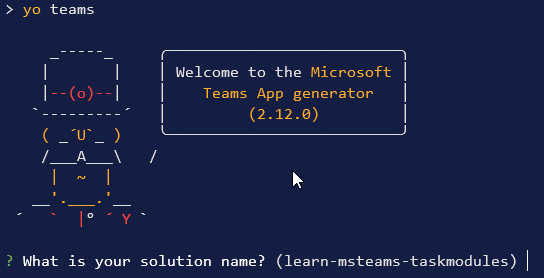
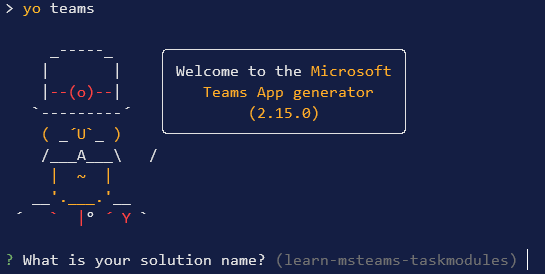
MSTeams module "TaskModules" - FY2021Q1 refresh
- run through all exercise steps in associated MSLearn module to validate good working order
- update code samples to reflect MSLearn HOL exercise refresh & updates
- updated steps & fixed typos where necessary

diff --git a/learn-m365-pr/m365-developer/msteams-task-modules/includes/3-exercise-use-task-modules-tabs.md b/learn-m365-pr/m365-developer/msteams-task-modules/includes/3-exercise-use-task-modules-tabs.md
@@ -25,7 +25,7 @@ You'll use Node.js to create custom Microsoft Teams tabs in this module. The exe
 - NPM (installed with Node.js) - v6.\* (or higher)
 - [Gulp](https://gulpjs.com/) - v4.\* (or higher)
 - [Yeoman](https://yeoman.io/) - v3.\* (or higher)
-- [Yeoman Generator for Microsoft Teams](https://github.com/OfficeDev/generator-teams) - v2.13.0 (or higher)
+- [Yeoman Generator for Microsoft Teams](https://github.com/OfficeDev/generator-teams) - v2.15.0 (or higher)
 - [Visual Studio Code](https://code.visualstudio.com)
 
 You must have the minimum versions of these prerequisites installed on your workstation.
@@ -36,7 +36,7 @@ Open your command prompt, navigate to a directory where you want to save your wo
 
 Run the Yeoman Generator for Microsoft Teams by running the following command:
 
-```shell
+```console
 yo teams
 ```
 
@@ -48,10 +48,11 @@ Yeoman will launch and ask you a series of questions. Answer the questions with 
 - **Where do you want to place the files?**: Use the current folder
 - **Title of your Microsoft Teams App project?**: YouTube Player
 - **Your (company) name? (max 32 characters)**: Contoso
-- **Which manifest version would you like to use?**: v1.5
+- **Which manifest version would you like to use?**: v1.6
 - **Enter your Microsoft Partner ID, if you have one?**: (Leave blank to skip)
 - **What features do you want to add to your project?**: A Tab
 - **The URL where you will host this solution?**: (Accept the default option)
+- **Would you like to show a loading indicator when your app/tab loads?** No
 - **Would you like to include Test framework and initial tests?**: No
 - **Would you like to use Azure Applications Insights for telemetry?**: No
 - **Default Tab name? (max 16 characters)**: YouTube Player 1
@@ -63,13 +64,35 @@ Yeoman will launch and ask you a series of questions. Answer the questions with 
 
 After answering the generator's questions, the generator will create the scaffolding for the project and then execute `npm install` that downloads all the dependencies required by the project.
 
+### Ensure the project is using the latest version of Teams manifest & SDK
+
+Run the npm command to install the latest version of the SDK
+
+```console
+npm i @microsoft/teams-js
+```
+
+Locate and open the `manifest.json` file in the `manifest`  folder of the project. 
+- Change the `$schema` property to **https://developer.microsoft.com/en-us/json-schemas/teams/v1.7/MicrosoftTeams.schema.json**
+- Change the `manifestVersion` property to **1.7**.
+
+Open the `gulp.config.js` file in the root folder of the project. Add the following to the **SCHEMAS** property.
+
+```json
+{
+  version: "1.7",
+  schema: "https://developer.microsoft.com/en-us/json-schemas/teams/v1.7/MicrosoftTeams.schema.json"
+}
+```
+
+
 ### Test the personal tab
 
 Before customizing the tab, let's test the tab to see the initial developer experience for testing.
 
 From the command line, navigate to the root folder for the project and execute the following command:
 
-```shell
+```console
 gulp ngrok-serve
 ```
 
@@ -131,7 +154,7 @@ Locate and open the file that contains the React component used in the project: 
 Update the import statements in this file to add components from the Fluent UI - React library. Find the following import statement at the top of the file that imports components from the Fluent UI - React library:
 
 ```typescript
-import { Provider, Flex, Text, Button, Header } from "@fluentui/react";
+import { Provider, Flex, Text, Button, Header } from "@fluentui/react-northstar";
 ```
 
 Replace the previous statement with the following import statement:
@@ -146,7 +169,7 @@ import {
   ThemePrepared,
   themes,
   Input
-} from "@fluentui/react";
+} from "@fluentui/react-northstar";
 ```
 
 Update the state of the component to contain a list of items and a property for a new item. Locate the `IYouTubePlayer1TabState` interface in the **YouTubePlayer1Tab.tsx** file and add the following properties to it:
@@ -188,7 +211,7 @@ Initialize the current theme and state of the component. Locate the line `this.u
 ```typescript
 this.updateComponentTheme(this.getQueryVariable("theme"));
 this.setState(Object.assign({}, this.state, {
-  youTubeVideoId: "jugBQqE_2sM"
+  youTubeVideoId: "VlEH4vtaxp4"
 }));
 ```
 
@@ -235,15 +258,6 @@ private onChangeVideo = (event: React.MouseEvent<HTMLButtonElement>): void => {
 }
 ```
 
-Finally, initialize the state of the tab by setting it to a default video to display.
-
-Within the `componentWillMount()` method, add the following statement to the top of the method:
-
-```typescript
-this.setState(Object.assign({}, this.state, {
-  youTubeVideoId: "VlEH4vtaxp4"
-}));
-```
 
 ### Test the personal tab
 
@@ -253,7 +267,7 @@ Increment the `version` property in the app's **./manifest/manifest.json** file 
 
 From the command line, navigate to the root folder for the project and execute the following command:
 
-```shell
+```console
 gulp ngrok-serve
 ```
 
@@ -365,7 +379,7 @@ Increment the `version` property in the app's **./manifest/manifest.json** file 
 
 From the command line, navigate to the root folder for the project and execute the following command:
 
-```shell
+```console
 gulp ngrok-serve
 ```
 
@@ -453,8 +467,8 @@ Add the following code to the page. Most of this code mirrors what you would see
 
 ```typescript
 import * as React from "react";
-import { Provider, Flex, Text, Button, Header, ThemePrepared, themes, Input } from "@fluentui/react";
-import TeamsBaseComponent, { ITeamsBaseComponentProps, ITeamsBaseComponentState } from "msteams-react-base-component";
+import { Provider, Flex, Text, Button, Header, ThemePrepared, themes, Input } from "@fluentui/react-northstar";
+import TeamsBaseComponent, { ITeamsBaseComponentState } from "msteams-react-base-component";
 import * as microsoftTeams from "@microsoft/teams-js";
 
 export interface IVideoSelectorTaskModuleState extends ITeamsBaseComponentState {
@@ -462,7 +476,7 @@ export interface IVideoSelectorTaskModuleState extends ITeamsBaseComponentState 
   youTubeVideoId?: string;
 }
 
-export interface IVideoSelectorTaskModuleProps extends ITeamsBaseComponentProps {
+export interface IVideoSelectorTaskModuleProps extends {
 }
 
 export class VideoSelectorTaskModule extends TeamsBaseComponent<IVideoSelectorTaskModuleProps, IVideoSelectorTaskModuleState> {
@@ -571,7 +585,7 @@ Increment the `version` property in the app's **./manifest/manifest.json** file 
 
 From the command line, navigate to the root folder for the project and execute the following command:
 
-```shell
+```console
 gulp ngrok-serve
 ```
 

diff --git a/learn-m365-pr/m365-developer/msteams-task-modules/includes/7-exercise-use-task-modules-bots.md b/learn-m365-pr/m365-developer/msteams-task-modules/includes/7-exercise-use-task-modules-bots.md
@@ -199,7 +199,7 @@ export class LearningTeamsBot extends TeamsActivityHandler {
     const mention = {
       mentioned: context.activity.from,
       text: `<at>${new TextEncoder().encode(context.activity.from.name)}</at>`,
-      type: 'mention'
+      type: "mention"
     };
 
     const replyActivity = MessageFactory.text(`Hi ${mention.text}`);
@@ -221,7 +221,7 @@ Increment the `version` property in the app's **./manifest/manifest.json** file 
 
 From the command line, navigate to the root folder for the project and execute the following command:
 
-```shell
+```console
 gulp ngrok-serve
 ```
 
@@ -235,14 +235,12 @@ Select **Settings** from the left-hand navigation. Update the **Messaging endpoi
 
 ![Screenshot of the console with ngrok URL](../media/07-test-bot-02.png)
 
-Locate the **./.env** file in the project. Update the property **HOSTNAME** to point to the same ngrok URL: **{{REPLACE_THIS}}.ngrok.io**.
-
 Now you're ready to add the bot to Microsoft Teams. In the browser, navigate to **https://teams.microsoft.com** and sign in with the credentials of a Work and School account.
 
 > [!NOTE]
 > Microsoft Teams is available for use as a web client, desktop client and a mobile client. In this module, we will use the web client but any of the clients can be used.
 
-Using the app bar navigation menu, select the **Mode added apps** button. Then select **Browse all apps** followed by **Upload for me or my teams**.
+Using the app bar navigation menu, select the **More added apps** button. Then select **Browse all apps** followed by **Upload for me or my teams**.
 
 ![Screenshot of More added apps dialog in Microsoft Teams](../media/03-yo-teams-05.png)
 
@@ -388,7 +386,7 @@ In the bot file, **./src/app/learningTeamsBot/learningTeamsBot.ts**, locate the 
 }
 ```
 
-You'll chain two task modules together. The first will display the Adaptive Card selector. Within the `handleTaskModuleFetch()` method, add the following `case` statement to the existing `switch` statement:
+You'll chain two task modules together. The first will display the Adaptive Card selector. Within the `handleTeamsTaskModuleFetch()` method, add the following `case` statement to the existing `switch` statement:
 
 ```typescript
 case "selector":

diff --git a/learn-m365-pr/m365-developer/msteams-task-modules/includes/2-use-task-modules-tabs.md b/learn-m365-pr/m365-developer/msteams-task-modules/includes/2-use-task-modules-tabs.md
@@ -20,7 +20,7 @@ Task modules can be invoked from tabs, bots, or deep links and what appears in o
 
 To invoke a task module, use the Microsoft Teams client SDK:
 
-```js
+```javascript
 microsoftTeams.tasks.startTask(taskInfo, callback);
 ```
 
@@ -43,7 +43,7 @@ The second parameter of the `startTask()` method is a callback. This callback ca
 
 From within the task module, you can submit the data collected from the user by calling the `submitTask()` method:
 
-```js
+```javascript
 microsoftTeams.tasks.submitTask(result);
 ```
 

diff --git a/learn-m365-pr/m365-developer/msteams-task-modules/includes/5-exercise-use-adaptive-cards-deep-links.md b/learn-m365-pr/m365-developer/msteams-task-modules/includes/5-exercise-use-adaptive-cards-deep-links.md
@@ -149,7 +149,7 @@ Increment the `version` property in the app's **./manifest/manifest.json** file 
 
 From the command line, navigate to the root folder for the project and execute the following command:
 
-```shell
+```console
 gulp ngrok-serve
 ```
 
